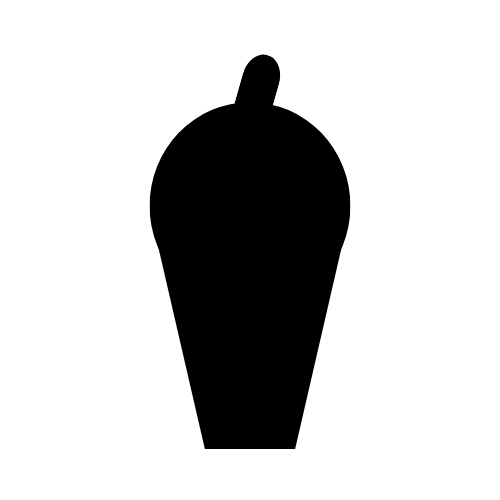
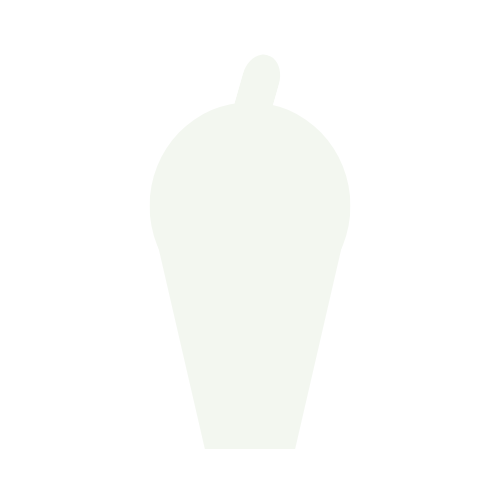
Revamped Themes

Changed region(s): [[0.3, 0.09, 0.72, 0.9]]

diff --git a/templates/Home.html b/templates/Home.html
@@ -6,6 +6,7 @@
     <meta name="description" content="The Newthy website is an AI-powered article summarizer that identifies common denominators within the latest news, and returns summaries for the top most repeated headlines">
     <meta name="viewport" content="width=device-width, initial-scale=1, shrink-to-fit=no">
     <link rel="stylesheet" href="https://cdn.jsdelivr.net/npm/bootstrap@4.1.3/dist/css/bootstrap.min.css" integrity="sha384-MCw98/SFnGE8fJT3GXwEOngsV7Zt27NXFoaoApmYm81iuXoPkFOJwJ8ERdknLPMO" crossorigin="anonymous">
+    <link href="/static/customized.css" rel="stylesheet">
     <link rel="icon" href="/static/favicon.ico" type="image/x-icon">
     <title>Newthy</title>
 </head>
@@ -19,11 +20,11 @@
                     {% set page_lower = page|lower %}
                     {% if currentPage == page_lower %}
                         <li class="nav-item">
-                            <a class="nav-link active" width="mx-auto" href="{{ url_for(page_lower) }}">{{ page }}</a>
+                            <a class="nav-link active" width="25%" href="{{ url_for(page_lower) }}">{{ page }}</a>
                         </li>
                     {% else %}
                         <li class="nav-item">
-                            <a class="nav-link" width="mx-auto" href="{{ url_for(page_lower) }}">{{ page }}</a>
+                            <a class="nav-link" width="25%" href="{{ url_for(page_lower) }}">{{ page }}</a>
                         </li>
                     {% endif %}
                 {% endfor %}
@@ -33,7 +34,7 @@
 
     <!-- Main Content Container -->
     <div class="container d-flex justify-content-center mt-5" style="min-height: calc(100vh - 56px);">
-        <div class="text-center" style="max-width: 400px; width: 100%; margin-top: auto; margin-bottom: 40%;">
+        <div class="text-center" style="max-width: 400px; width: 100%; margin-top: auto; margin-bottom: 25%;">
             <img src="\static\ARNAVAC.png" class="img-thumbnail border-0" width="50%" height="50%">
             <div class="form-group">
                 <label for="searchTopic">Topic to search</label>

diff --git a/static/customized.css b/static/customized.css
@@ -1,0 +1,46 @@
+/* Override Bootstrap button colors */
+.btn-primary {
+    background-color: #F2545B; /* Tomato red */
+    border-color: #F2545B;
+}
+/* Override navbar background color */
+.navbar {
+    background-color: #19323C; /* Darker background for the navbar */
+}
+
+/* Custom color for inactive nav links */
+.nav-link {
+    color: #19323C !important; /* Replace with your desired color */
+}
+
+/* Custom color for the active nav link */
+.nav-link.active {
+    color: #19323C !important; /* Replace with your desired active color */
+    background-color: #F2545B !important; /* Replace with your background color */
+}
+
+.card-header {
+    padding: .75rem 1.25rem;
+    margin-bottom: 0;
+    background-color: #F3F7F0;
+    border-bottom: 1px solid #F3F7F0;
+}
+
+body {
+    margin: 0;
+    font-family: -apple-system,BlinkMacSystemFont,"Segoe UI",Roboto,"Helvetica Neue",Arial,sans-serif,"Apple Color Emoji","Segoe UI Emoji","Segoe UI Symbol","Noto Color Emoji";
+    font-size: 1rem;
+    font-weight: 400;
+    line-height: 1.5;
+    color: #f3f7f0;
+    text-align: left;
+    background-color: #19323C;
+}
+
+.img-thumbnail {
+    padding: 0 !important;
+    border: none !important;
+    border-radius: 0 !important;
+    background-color: transparent !important; /* Removes any background */
+    box-shadow: none !important; /* Removes any shadow if Bootstrap applies one */
+}
